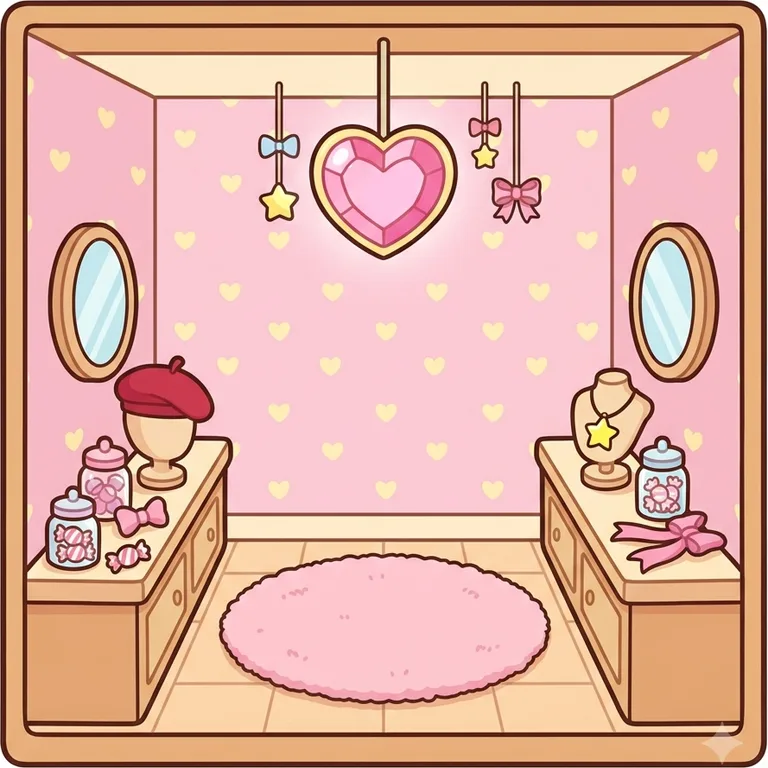
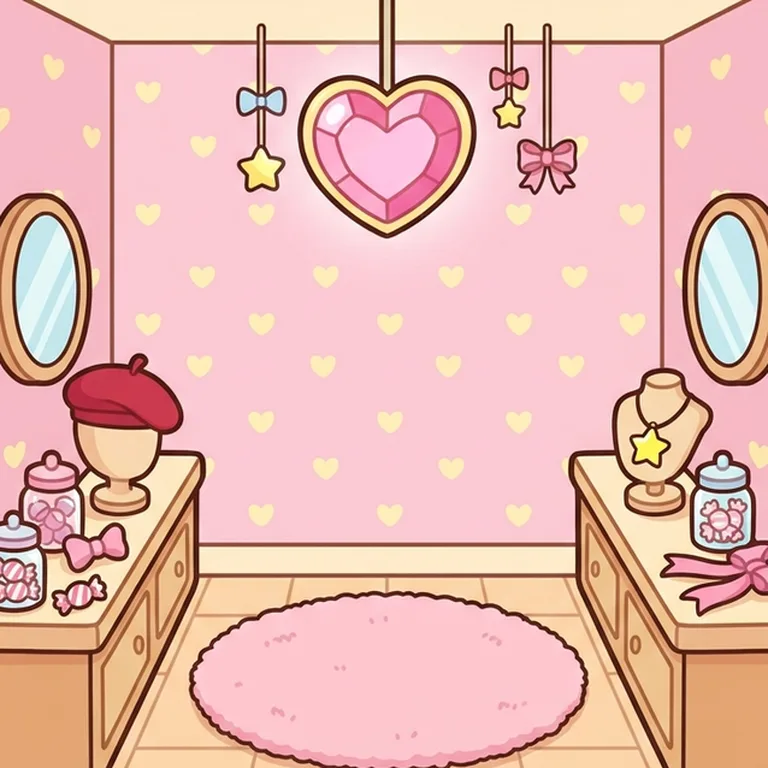
보석 상점: 가게 안 배경에서 제미나이 워터마크 틀 제거, 팬페이지에서도 상점 카드 버튼 색이 보이게
Claude-Session: https://claude.ai/code/session_01AXsD9h7SNzoEfX6b5xMRyx

diff --git a/tamagotchi-world.html b/tamagotchi-world.html
@@ -8,7 +8,7 @@
   <meta name="description" content="다마고치 마을: 분양소에서 새 가족을 맞이하고 훈련소에서 재주를 가르쳐요.">
   <title>다마고치 월드 — 게임 시리즈 상점</title>
   <link rel="stylesheet" href="style.css">
-  <link rel="stylesheet" href="tamagotchi.css?v=20261114-tg-wear1">
+  <link rel="stylesheet" href="tamagotchi.css?v=20261114-tg-wear2">
   <script src="https://developers.kakao.com/sdk/js/kakao.js"></script>
   <script type="module" src="shop-login.js?v=20261113-tg-opt1"></script>
   <link rel="stylesheet" href="tamagotchi-world.css?v=20261114-tg-wear1">

diff --git a/tamagotchi.css b/tamagotchi.css
@@ -297,3 +297,6 @@ html.tg-noscroll, html.tg-noscroll body { overflow: hidden; overscroll-behavior:
 .tg-shop-card small{font-size:12px;opacity:.8;line-height:1.4}
 .tg-shop-card .tg-button{width:100%;min-height:34px;font-size:13px}
 @media (max-width:560px){.tg-shop-grid{grid-template-columns:repeat(2,minmax(0,1fr))}}
+/* 팬페이지처럼 --ink가 없는 곳에서도 버튼 글자가 보이게 */
+.tg-shop-card .tg-button{color:var(--ink,#2b2838)}
+.tg-shop-card .tg-button-primary{border-color:#e9799b;background:#e9799b;color:#fff}
